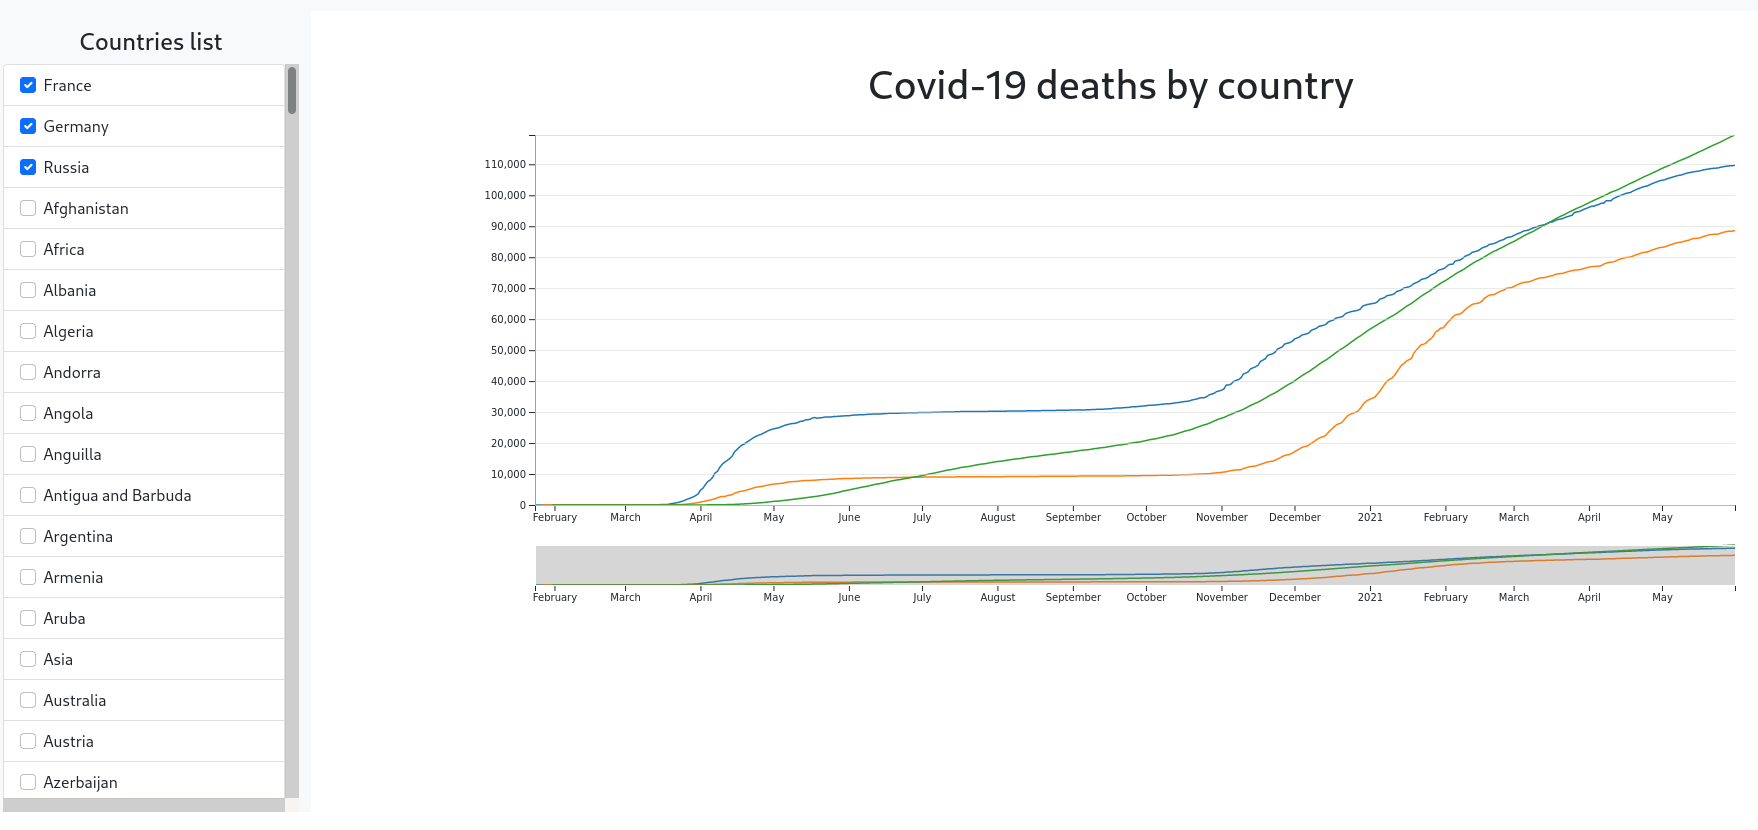
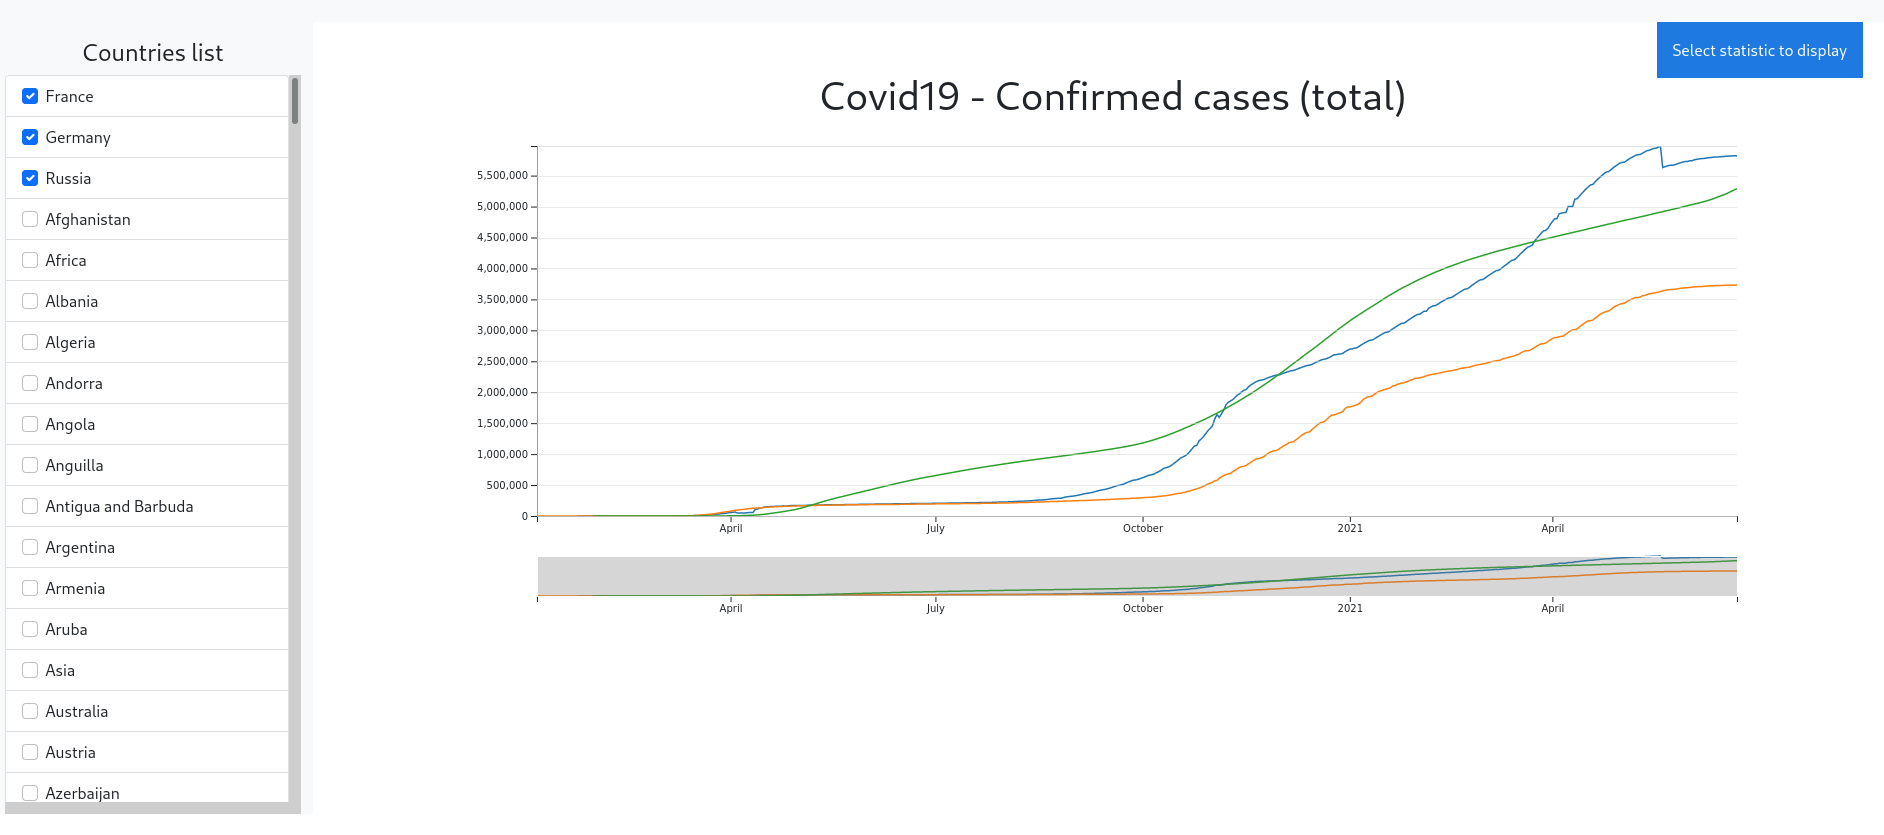
Header + dropdown chart

diff --git a/web/static/js/chart.js b/web/static/js/chart.js
@@ -1,12 +1,24 @@
-function displayAll(list_countries) {
+function displayAll(list_countries, metric) {
     
+    if (metric == 'total_deaths'){
+        var metric_name = 'Deaths (total)'
+    } else if (metric == 'total_cases'){
+        var metric_name = 'Confirmed cases (total)'
+    } else if (metric == 'people_fully_vaccinated'){
+        var metric_name = 'Fully vaccinated people'
+    } else if (metric == 'people_vaccinated'){
+        var metric_name = 'Vaccinated People (at least one dose)'
+    }
+
+    $(".dropdown").attr("id", metric)
+    $("#doc-title").text("Covid19 - " + metric_name)
+
     var svg = d3.select("#chart").append("svg").attr("width", document.getElementById("chart").clientWidth - 40).attr("height", 500),
         margin = {top: 20, right: 20, bottom: 110, left: 60},
         margin2 = {top: 430, right: 20, bottom: 30, left: 60},
         width = +svg.attr("width") - margin.left - margin.right,
         height = +svg.attr("height") - margin.top - margin.bottom,
         height2 = +svg.attr("height") - margin2.top - margin2.bottom;
-
 
     var x = d3.scaleTime().range([0, width]),
         x2 = d3.scaleTime().range([0, width]),
@@ -35,12 +47,12 @@ function displayAll(list_countries) {
     // Ligne du graphique
     var line = d3.line()
         .x(function (d) { return x(d.date); })
-        .y(function (d) { return y(+d.total_deaths); });
+        .y(function (d) { return y(+d[metric]); });
 
     // Ligne du sélecteur
     var line2 = d3.line()
         .x(function (d) { return x2(d.date); })
-        .y(function (d) { return y2(+d.total_deaths); });
+        .y(function (d) { return y2(+d[metric]); });
     
     // Use for zooming and brushing -> avoid line to be plot outside the box 
     var clip = svg.append("defs").append("svg:clipPath")
@@ -76,7 +88,7 @@ function displayAll(list_countries) {
           });
 
         x.domain(d3.extent(data, d => d.date));
-        y.domain(d3.extent(data, d => +d.total_deaths));
+        y.domain(d3.extent(data, d => +d[metric]));
         x2.domain(x.domain());
         y2.domain(y.domain());
 
@@ -247,7 +259,7 @@ function displayAll(list_countries) {
 
 }
 
-function update() {
+function update(metric) {
     var selected = [];
     $('#countries input:checked').each(function() {
         selected.push($(this).attr('value'));
@@ -262,7 +274,7 @@ function update() {
 
     $(".list-group-item:has(input:checked)").prependTo("#countries")
     $("svg").remove()
-    displayAll(selected)
+    displayAll(selected, metric)
 }
 
 window.onload = function() {
@@ -272,7 +284,7 @@ window.onload = function() {
         if (countries.includes($(this).val()))
             $(this).prop( "checked", true );
     });
-    update()
+    update('total_cases')
 }
 
 

diff --git a/web/templates/chart.html b/web/templates/chart.html
@@ -12,6 +12,15 @@
 
 {% block content %}
 <!-- Ajouter le contenu à afficher -->
+<div class="dropdown"> 
+    <button class="dropbtn">Select statistic to display</button>
+    <div class="dropdown-content">
+      <a onclick="update('total_cases')">Confirmed cases (total)</a>
+      <a onclick="update('total_deaths')">Deaths (total)</a>
+      <a onclick="update('people_fully_vaccinated')">Fully vaccinated people</a>
+      <a onclick="update('people_vaccinated')" >Vaccinated (at least one dose)</a>
+    </div> 
+  </div>
 <div class="container-fluid h-100">
     <div class="row h-100">
         <div class="col-2 pposition-fixed bg-light" id="sidebar">
@@ -23,7 +32,7 @@
                     <ul class="list-group" id="countries">
                         {% for country in countries %}
                             <label class="list-group-item">
-                                <input class="form-check-input me-1" type="checkbox" value="{{ country }}" onclick="update()">
+                                <input class="form-check-input me-1" type="checkbox" value="{{ country }}" onclick="update($('.dropdown').attr('id'))">
                                 {{ country }}
                             </label>
                         {% endfor %}
@@ -33,7 +42,7 @@
         </div>
         <div class="col-sm align-items-center pt-5">
             <div class="container-fluid text-center">
-                <h1>Covid-19 deaths by country</h1>
+                <h1 id="doc-title">Covid-19 deaths by country</h1>
             </div>
             <div class="container" id="chart"></div>
             

diff --git a/web/static/css/chart.css b/web/static/css/chart.css
@@ -26,3 +26,47 @@ pointer-events: all;
 	fill: none;
 	pointer-events: all;
 }
+
+.dropbtn {
+  background-color: #1e79e0;
+  color: white;
+  padding: 16px;
+  font-size: 16px;
+  border: none;
+}
+
+
+/* The container <div> - needed to position the dropdown content */
+.dropdown {
+  position: absolute;
+  display: inline-block;
+  text-align: center;
+  right:50px
+}
+  
+/* Dropdown Content (Hidden by Default) */
+.dropdown-content {
+  display: none;
+  position: absolute;
+  background-color: #f1f1f1;
+  min-width: 250px;
+  box-shadow: 0px 8px 16px 0px rgba(0,0,0,0.2);
+  z-index: 1;
+}
+  
+/* Links inside the dropdown */
+.dropdown-content a {
+  color: black;
+  padding: 12px 16px;
+  text-decoration: none;
+  display: block;
+}
+  
+/* Change color of dropdown links on hover */
+.dropdown-content a:hover {background-color: #ddd;}
+  
+/* Show the dropdown menu on hover */
+.dropdown:hover .dropdown-content {display: block;}
+  
+/* Change the background color of the dropdown button when the dropdown content is shown */
+.dropdown:hover .dropbtn {background-color: #3e8e41;}

diff --git a/web/static/css/base.css b/web/static/css/base.css
@@ -1,1 +1,8 @@
 /* CSS général */
+
+.navbar {
+    background-image: url("../img/covid-header.png");
+    background-repeat: no-repeat;
+    background-size: 100% 100%;
+}
+
